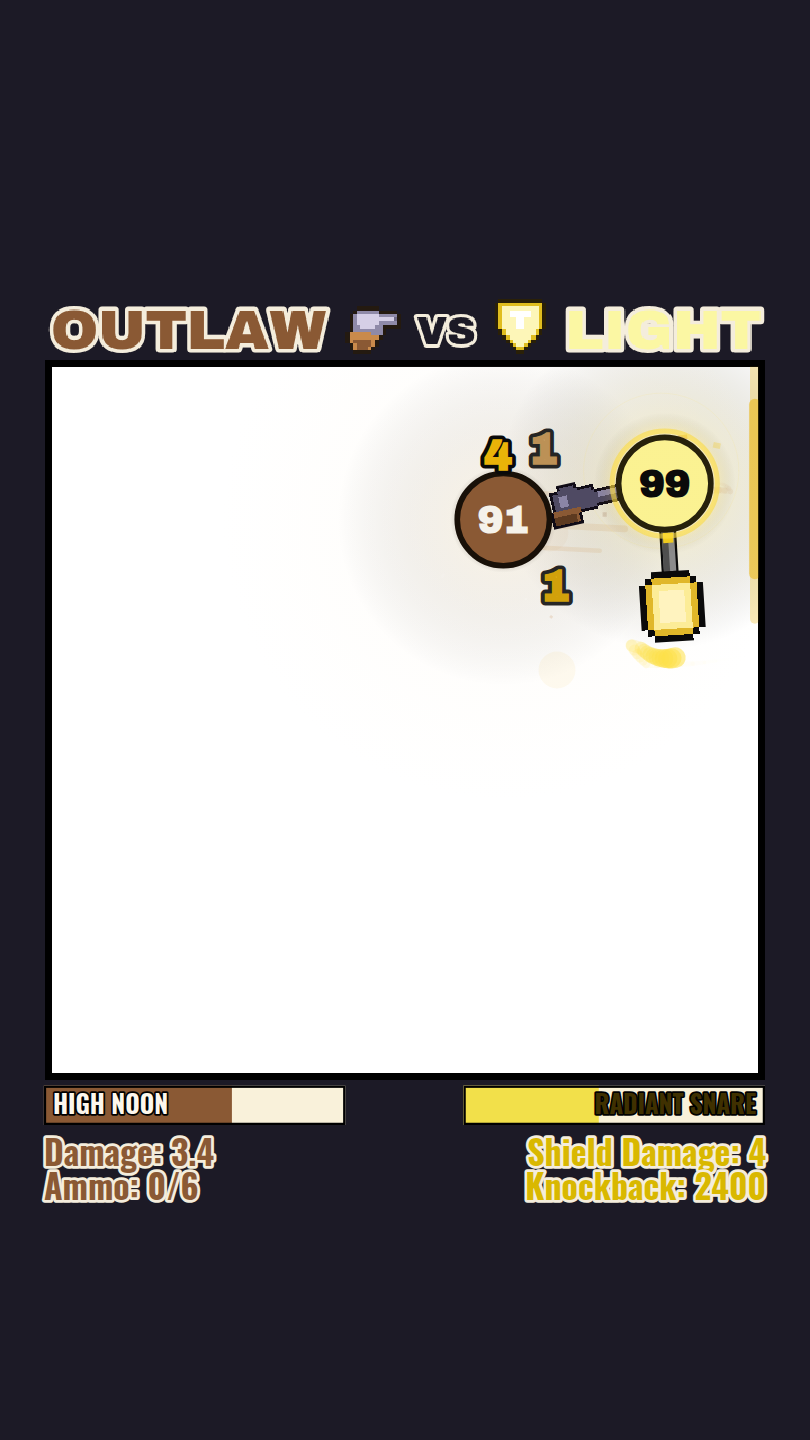
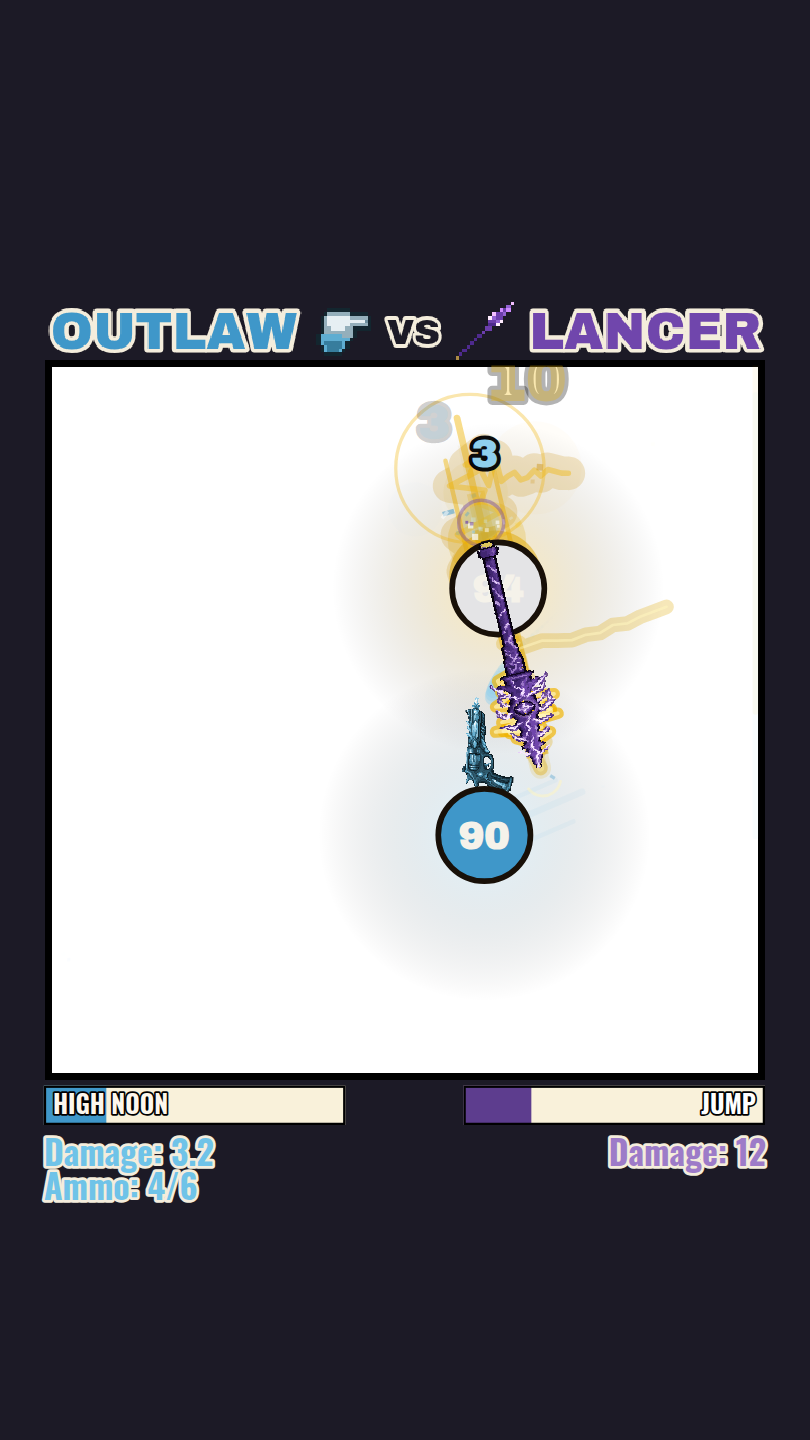
Hors-la-loi : type glace, arme et balles givrées, gel à la touche, tour au rechargement
Six demandes, dont deux que le moteur savait déjà faire et une qui coûte cher.

Type glace, teinte comprise

Les deux cartes — revolver et balle — gardent **exactement leur dessin** : la
conversion se fait couleur par couleur, teinte fixée à ~199°, en **conservant
la luminosité**, qui porte tout le modelé. L'icône du titre suit, sans quoi
elle aurait divergé une fois de plus. Bille, halo, ruban, particules, éclat
d'impact, traînée, jauge, accent et ligne de stat passent au bleu.

La bille est `#3f97c9`, un bleu **moyen** et non pâle. Le chiffre de PV est
crème, c'est un relevé, et un bleu clair le noierait : c'est la leçon du cuivre
clair du Lancier, qui avait forcé son chiffre en brun sombre. Ici le crème
reste.

Gel à la touche — le moteur savait déjà

`onHit.slow: 0.30` pendant 1,6 s dans la fiche du projectile, et c'est tout :
`Match.damage` lit `slow`/`slowDuration` et appelle `Fighter.applySlow`, comme
pour l'Ombre et la Glace. `slowFactor` retient le **pire** ralentissement actif
et le plafonne à 0,75, donc deux balles coup sur coup prolongent au lieu de
s'empiler.

Tir linéaire, détruit au contact et au mur — déjà le cas

Rien n'a été écrit, parce qu'il n'y avait rien à écrire. `projectiles.js`
intègre `vx`/`vy` sans aucun pilotage, donc la trajectoire est déjà une droite ;
`bounces: 0` tue la balle au premier mur ; et le contact d'un combattant la tue
également. Vérifié dans le code plutôt que « corrigé » à l'aveugle.

Tour complet au rechargement
[…]

diff --git a/src/data/elements.js b/src/data/elements.js
@@ -1342,13 +1342,20 @@ const OUTLAW = {
   id: 'outlaw',
   name: 'HORS-LA-LOI',
   nameRef: 'OUTLAW',
-  tagline: 'Pistolero — vise, tire, recule, et affûte ses dégâts balle après balle',
-  taglineRef: 'Gunslinger — aims, fires, kicks back, and sharpens every bullet',
+  tagline: 'Pistolero de glace — vise, tire, et gèle sa cible balle après balle',
+  taglineRef: 'Ice gunslinger — aims, fires, and freezes its mark with every bullet',
   icon: 'iconRevolver',
 
   look: {
     radius: 41, // mesuré : bille de rayon 32 sur la vidéo 576 → ×1,25 = 40
-    body: '#8a5934', // pipette : (138,89,52), médiane érodée titre + bille + jauge
+    /**
+     * **Bleu de glace.** La pipette donne le brun `#8a5934` de la vidéo ; le
+     * personnage est passé au type glace, et sa bille suit son arme, comme
+     * celle du Lancier suit la sienne. Bleu **moyen** et non pâle : le chiffre
+     * de PV est crème (mesuré), et un bleu clair le noierait — c'est la leçon
+     * du cuivre clair du Lancier, qui avait forcé son chiffre en brun sombre.
+     */
+    body: '#3f97c9',
     bodyHit: '#e4e4e6', // mesuré frames 223/224/225 : le disque touché blanchit
     outline: '#181008', // pipette : (24,13,7), contour des billes
     outlineWidth: 5,
@@ -1358,7 +1365,7 @@ const OUTLAW = {
     hpFont: '900 34px "Archivo Black", "Arial Black", sans-serif',
     hpOffsetY: 12,
     aura: {
-      color: 'rgba(232,201,138,0.45)',
+      color: 'rgba(143,208,238,0.5)',
       radius: 1.58,
       pulse: 2.2,
       /** Le barillet se recharge toutes les secondes : un halo branché sur le
@@ -1368,14 +1375,14 @@ const OUTLAW = {
     flair: {
       /** Le revolver ne tourne pas (il est asservi à l'adversaire) : le ruban
        *  de pointe d'arme trace donc sa ligne de visée, pas une spirale. */
-      ribbon: { color: '#c98a4b', width: 13, alpha: 0.42 },
-      motes: { rate: 8, size: 8, drift: 30, rise: -8, colors: ['#8a5934', '#c98a4b', '#e8c98a'] },
-      impact: ['#e8c98a', '#ffffff', '#8a5934'],
+      ribbon: { color: '#8fd0ee', width: 13, alpha: 0.45 },
+      motes: { rate: 8, size: 8, drift: 30, rise: -8, colors: ['#3f97c9', '#8fd0ee', '#dff2fb'] },
+      impact: ['#dff2fb', '#ffffff', '#3f97c9'],
       shape: 'streak',
       castFlash: 'rgba(253,247,237,0.65)', // mesuré : l'arène vire au crème sous HIGH NOON
     },
-    trail: { color: 'rgba(138,89,52,0.26)', every: 0.04, life: 0.28 },
-    accent: '#d2a15e',
+    trail: { color: 'rgba(63,151,201,0.26)', every: 0.04, life: 0.28 },
+    accent: '#8fd0ee',
   },
 
   /** Mesuré 483 px/s (médiane de 57 segments rectilignes) → ×1,25 = 604.
@@ -1384,8 +1391,8 @@ const OUTLAW = {
   movement: { speed: 455, turnRate: 1.9, seek: 0.44, mass: 1 },
 
   weapon: {
-    name: 'Revolver',
-    nameRef: 'Revolver',
+    name: 'Revolver de glace',
+    nameRef: 'Ice Revolver',
     /** Mesuré : pointe du canon à 97 px du centre sur la vidéo 576 → ×1,25.
      *  Elle **découle** du sprite : 37 (garde) + 34 cellules × 2,5. */
     reach: 122,
@@ -1398,7 +1405,7 @@ const OUTLAW = {
     /** Le sprite porte sa propre crosse : `width: 0` demande au moteur de ne
      *  rien dessiner, `length` ne sert plus qu'à décoller le sprite du centre
      *  (37 px, soit 4 px sous le bord de la bille). */
-    handle: { length: 37, width: 0, color: '#5d3a20', dark: '#3a2413', outline: '#100b16', gem: null },
+    handle: { length: 37, width: 0, color: '#26566f', dark: '#153546', outline: '#0b1620', gem: null },
     // 37 + 85 × 1 = 122, la portée relevée — inchangée par le nouveau dessin
     head: { sprite: 'outlawRevolver', scale: 1, anchorY: 0.5 },
     /** Seul le bout du canon frappe : à bout portant, c'est un tir. */
@@ -1451,7 +1458,7 @@ const OUTLAW = {
     nameRef: 'HIGH NOON',
     barLabel: 'HIGH NOON',
     barLabelFr: 'PLEIN SOLEIL',
-    barFill: '#8a5934',
+    barFill: '#3f97c9',
     barText: '#fdf7ed',
     /** Mesuré : charge linéaire de 1,13 px/image sur 238 px utiles → 7,0 s.
      *  C'est une **horloge pure** : la jauge gauche ne réagit pas aux coups. */
@@ -1471,8 +1478,8 @@ const OUTLAW = {
 
   projectiles: {
     shot: {
-      label: 'Balle',
-      labelRef: 'Bullet',
+      label: 'Balle de glace',
+      labelRef: 'Ice Bullet',
       sprite: 'outlawShot',
       scale: 1, // carte 30 × 9 : 30 × 9 px dessinés, comme les 28,8 × 9,6 d'avant
       /** Calé : à 30 fps la vidéo ne montre que le sillage, jamais la balle.
@@ -1487,8 +1494,19 @@ const OUTLAW = {
       knockback: 45,
       /** Mesuré frame 300 : un trait **pâle** de 2 px, (213,182,153) à
        *  (236,206,177) — pas un rond sombre. */
-      trail: { color: 'rgba(206,174,142,0.55)', every: 0.03, life: 0.2, dotted: true },
-      onHit: { stackGain: 0.1, stackMax: 8 }, // mesuré : +0,10 par balle AU BUT
+      trail: { color: 'rgba(206,235,250,0.6)', every: 0.03, life: 0.2, dotted: true },
+      /**
+       * **Gel.** `slow` et `slowDuration` sont lus par `Match.damage` et
+       * passés à `Fighter.applySlow` : le moteur savait déjà le faire, c'est le
+       * mécanisme de l'Ombre et de la Glace. Rien à écrire ailleurs.
+       *
+       * 0,30 pendant 1,6 s : assez pour se voir et pour compter, pas assez
+       * pour immobiliser — `slowFactor` retient le pire ralentissement actif,
+       * donc deux balles coup sur coup ne s'empilent pas, elles prolongent.
+       *
+       * `stackGain` reste **mesuré** : +0,10 par balle au but.
+       */
+      onHit: { stackGain: 0.1, stackMax: 8, slow: 0.3, slowDuration: 1.6 },
     },
   },
 
@@ -1504,7 +1522,7 @@ const OUTLAW = {
       (f) => `Dégâts : ${formatHalf(f.stacks)}`,
       (f) => `Balles : ${Math.round(f.stacks2)}/6`,
     ],
-    color: '#8a5934',
+    color: '#6fc3e8', // bleu clair : la ligne de stat est posée sur l'encre sombre
     stroke: '#f4eddc', // liseré clair : la ligne de stat est posée sur le fond sombre
   },
 };

diff --git a/src/game/abilities/outlaw.js b/src/game/abilities/outlaw.js
@@ -25,21 +25,24 @@
  * @module game/abilities/outlaw
  */
 
-import { TAU, clamp } from '../../core/math.js';
+import { TAU, clamp, wrapAngle } from '../../core/math.js';
 
 export const outlawAbilities = {
   id: 'outlaw',
 
   init(f) {
     f.state.reload = 0; // > 0 : barillet vide, on recharge
+    f.state.reloadFrom = 0; // angle d'arme au debut du tour de rechargement
   },
 
   update(f, dt, now, game) {
     const el = f.el;
 
     // --- visée : le canon suit l'adversaire, sans lissage (mesuré)
+    // Pendant le rechargement l'arme fait un tour complet et n'est donc plus
+    // asservie : on n'écrit pas l'angle deux fois pour le même pas.
     const target = f.opponent;
-    if (target && target.alive) {
+    if (target && target.alive && f.state.reload <= 0) {
       f.weaponAngle = Math.atan2(target.y - f.y, target.x - f.x);
     }
 
@@ -63,6 +66,18 @@ export const outlawAbilities = {
     if (game.phase !== 'fight') return;
     if (f.state.reload > 0) {
       f.state.reload -= dt;
+      /**
+       * **Un tour complet pendant le rechargement.** L'arme quitte sa cible et
+       * pivote de 360° sur toute la durée : c'est ce qui rend le rechargement
+       * lisible, là où le barillet vide ne se voyait que dans le HUD.
+       *
+       * L'angle est **calculé depuis l'avancement**, pas incrémenté image par
+       * image : une accumulation dériverait au fil des pas et le tour ne
+       * retomberait pas exactement sur l'angle de départ. Ici il s'y referme
+       * par construction, et la visée reprend sans saut.
+       */
+      const done = 1 - Math.max(0, f.state.reload) / el.ability.reload;
+      f.weaponAngle = wrapAngle(f.state.reloadFrom + TAU * done);
       if (f.state.reload <= 0) {
         f.state.reload = 0;
         f.stacks2 = el.ability.magazine; // le HUD repasse de 0/6 à 6/6
@@ -113,6 +128,8 @@ export const outlawAbilities = {
     if (f.stacks2 <= 0) {
       f.stacks2 = 0;
       f.state.reload = a.reload;
+      // l'angle de depart du tour : il s'y referme exactement
+      f.state.reloadFrom = f.weaponAngle;
       return;
     }
     // pendant HIGH NOON la cadence double (mesuré)

diff --git a/src/data/pixelmaps.js b/src/data/pixelmaps.js
@@ -687,22 +687,22 @@ export const OUTLAW_REVOLVER = deepFreeze({
   w: 85,
   h: 46,
   palette: {
-    0: '#0f0917',
-    1: '#1d112b',
-    2: '#2b1b3c',
-    3: '#39244d',
-    4: '#462d5d',
-    5: '#543570',
-    6: '#683f86',
-    7: '#794c9e',
-    8: '#8e66a9',
-    9: '#9a56c8',
-    a: '#a279c6',
-    b: '#ba7adf',
-    c: '#c998ee',
-    d: '#f1a7fc',
-    e: '#ffccff',
-    f: '#ffffff',
+    0: '#0c1a20',
+    1: '#142b36',
+    2: '#1e3b49',
+    3: '#264b5c',
+    4: '#2f5a6d',
+    5: '#376b82',
+    6: '#417e9a',
+    7: '#4f94b3',
+    8: '#71a2b9',
+    9: '#68b0d1',
+    a: '#8abcd2',
+    b: '#92cce6',
+    c: '#b5dff2',
+    d: '#cfebf7',
+    e: '#f2f9fd',
+    f: '#f7f8f8',
   },
   rows: [
     '..................450..................................................22............',
@@ -779,14 +779,14 @@ export const OUTLAW_SHOT = deepFreeze({
   w: 30,
   h: 9,
   palette: {
-    K: '#120320',
-    d: '#220b36',
-    e: '#38194d',
-    m: '#933aa9',
-    p: '#6a2589',
-    c: '#b165c9',
-    C: '#eeacfc',
-    W: '#fdf2ff',
+    K: '#071e29',
+    d: '#0d3142',
+    e: '#1c475b',
+    m: '#3d96be',
+    p: '#28779b',
+    c: '#77b6d3',
+    C: '#d4edf8',
+    W: '#f2f9fd',
   },
   rows: [
     'KKKKKKKKKKKKKKKKKKKK..........',
@@ -846,7 +846,7 @@ export const BLADESMAN_SABRE = deepFreeze({
 export const ICON_REVOLVER = deepFreeze({
   w: 16,
   h: 16,
-  palette: { K: '#241a10', S: '#8f8aa8', l: '#d5cfe6', s: '#6f6a86', W: '#c98a4b', w: '#8a5934' },
+  palette: { K: '#13262f', S: '#94afbb', l: '#e6eff3', s: '#6c8d9d', W: '#5eadd1', w: '#377d9d' },
   rows: [
     '................',
     '................',

diff --git a/docs/FICHES.md b/docs/FICHES.md
@@ -443,6 +443,24 @@ citée entre parenthèses.
 
 ## 🐲 DRAGOON — `lancer` (affiché « DRAGOON »)
 
+### Le Hors-la-loi passe au type glace
+
+| Ce qui change | Détail |
+| --- | --- |
+| Arme et munitions | même dessin, **teinte de glace** : chaque couleur des deux cartes est convertie à teinte fixe (~199°) en **conservant sa luminosité**, qui porte tout le modelé. Le revolver reste celui de la maquette, seule sa gamme bouge |
+| Bille et chrome | `#3f97c9`, un bleu **moyen** et non pâle : le chiffre de PV est crème (mesuré), et un bleu clair le noierait — c'est la leçon du cuivre clair du Lancier, qui avait forcé son chiffre en brun sombre |
+| Gel à la touche | `onHit.slow: 0.30` pendant 1,6 s. Le moteur savait déjà le faire : `Match.damage` lit `slow`/`slowDuration` et appelle `Fighter.applySlow`, comme pour l'Ombre et la Glace. `slowFactor` retient le **pire** ralentissement actif et le plafonne à 0,75, donc deux balles coup sur coup prolongent au lieu de s'empiler |
+| Rechargement | l'arme quitte sa cible et fait **un tour complet** sur les 1,4 s de recharge. L'angle est calculé depuis l'avancement et non incrémenté image par image : une accumulation dériverait et le tour ne retomberait pas sur l'angle de départ |
+| Tir | **déjà linéaire, déjà détruit au contact et au mur** — rien à écrire. `projectiles.js` intègre `vx`/`vy` sans pilotage, `bounces: 0` tue la balle au mur, et le contact d'un combattant la tue aussi |
+
+**Ce que le tour de rechargement coûte, et ce n'est pas le gel.** Le Hors-la-loi
+passe de 15 à **9 victoires sur 30**. Pendant 1,4 s l'arme n'est plus asservie à
+la cible, or le bout du canon porte la hitbox de mêlée (`hitbox.from: 0,62`) :
+il balaie au lieu de pointer, et perd ses touches de contact sur toute la
+recharge. Cinq affrontements ont basculé, aucun dans l'autre sens — le
+ralentissement ne compense pas. C'est le coût assumé d'un effet demandé ; les
+leviers pour le rattraper sont `onHit.slow` et `ability.reload`.
+
 > Chargeur — pointe en avant, frappe de plus en plus fort, et tombe du ciel.
 >
 > *Anciennement « Dragoon ». Renommé, redessiné d'après une maquette d'arme,

diff --git a/CLAUDE.md b/CLAUDE.md
@@ -58,7 +58,7 @@ commentaire.
 
 | Personnage | Archétype | Signature | Module |
 | --- | --- | --- | --- |
-| `outlaw` Hors-la-loi | Pistolero | **revolver de cristal** transcrit d'une maquette, canon **asservi à la cible** (`weapon.spin = 0`), barillet de 6, dégâts +0,10 par balle au but | `abilities/outlaw.js` |
+| `outlaw` Hors-la-loi | Pistolero de **glace** | **revolver de givre** transcrit d'une maquette, canon **asservi à la cible** (`weapon.spin = 0`), barillet de 6, balles qui **gèlent** (−30 % de vitesse, 1,6 s), et un **tour complet de l'arme au rechargement** | `abilities/outlaw.js` |
 | `bladesman` Bretteur | Duelliste | rotation 0,80 → 3,00 tour/s puis surchauffe, `Damage = 2 × Spin` | `abilities/bladesman.js` |
 | `lancer` Lancier | Chargeur | **la lance suit le cap** (`weapon.spin = 0`), **charge** en ligne droite avec la lance de **164 px, la plus longue portée du jeu**, dégâts +2 par touche, et le **Bond** qui le sort de l'arène | `abilities/lancer.js` |
 
@@ -385,6 +385,14 @@ sans que ça se voie.
      balaie 3-0 et elle tombe à 12, à 240 il n'en prend que deux et elle
      revient. Ces 20 px de fenêtre coûtent 0,13 PV/s de fidélité (2,53 contre
      2,40) — la bande passe avant, c'est un invariant.
+   - **Le Hors-la-loi est tombé à 9/30 en passant au type glace**, et la cause
+     n'est pas le gel : c'est le **tour de rechargement**. Pendant 1,4 s l'arme
+     n'est plus asservie à la cible, donc le bout du canon — qui porte la
+     hitbox de mêlée (`hitbox.from: 0,62`) — balaie au lieu de pointer. Il perd
+     ses touches de contact sur toute la recharge, et le ralentissement ne
+     compense pas : cinq affrontements ont basculé, aucun dans l'autre sens.
+     C'est le coût assumé d'un effet demandé ; les leviers si on veut le
+     rattraper sont `projectiles.shot.onHit.slow` et `ability.reload`.
    - **Le Lancier est à 30/30 — il gagne tous ses duels.** C'est le piège de
      l'arme braquée dans sa forme la plus pure : une charge qui traverse toute
      l'arène, contre dix adversaires qui pilotent vers lui et entrent donc dans
